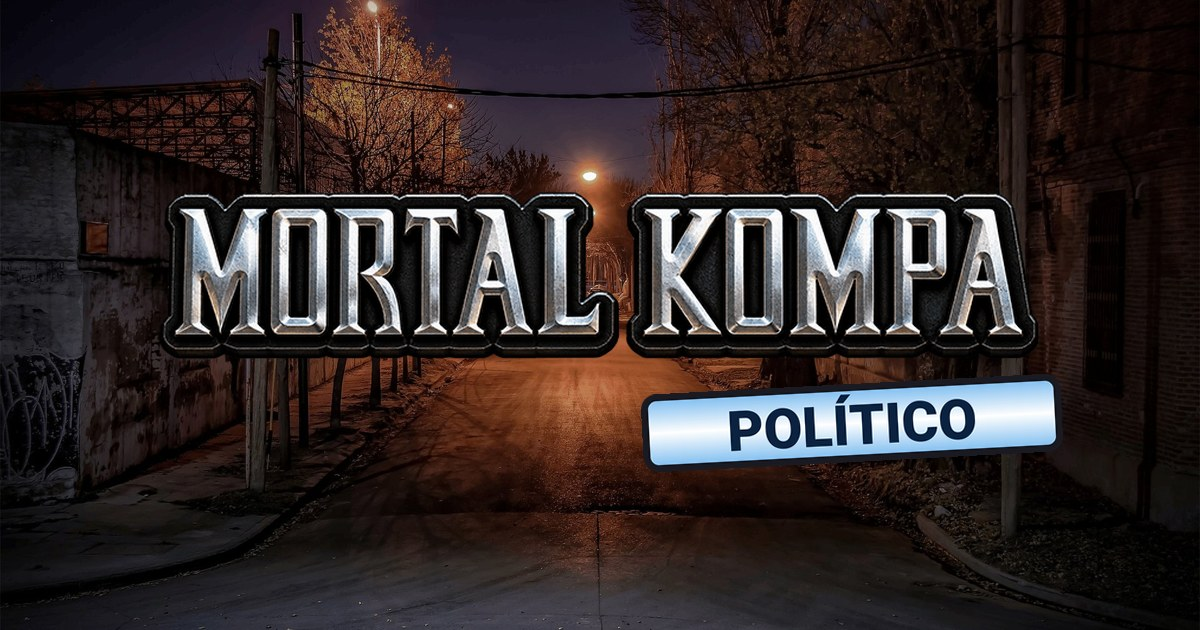
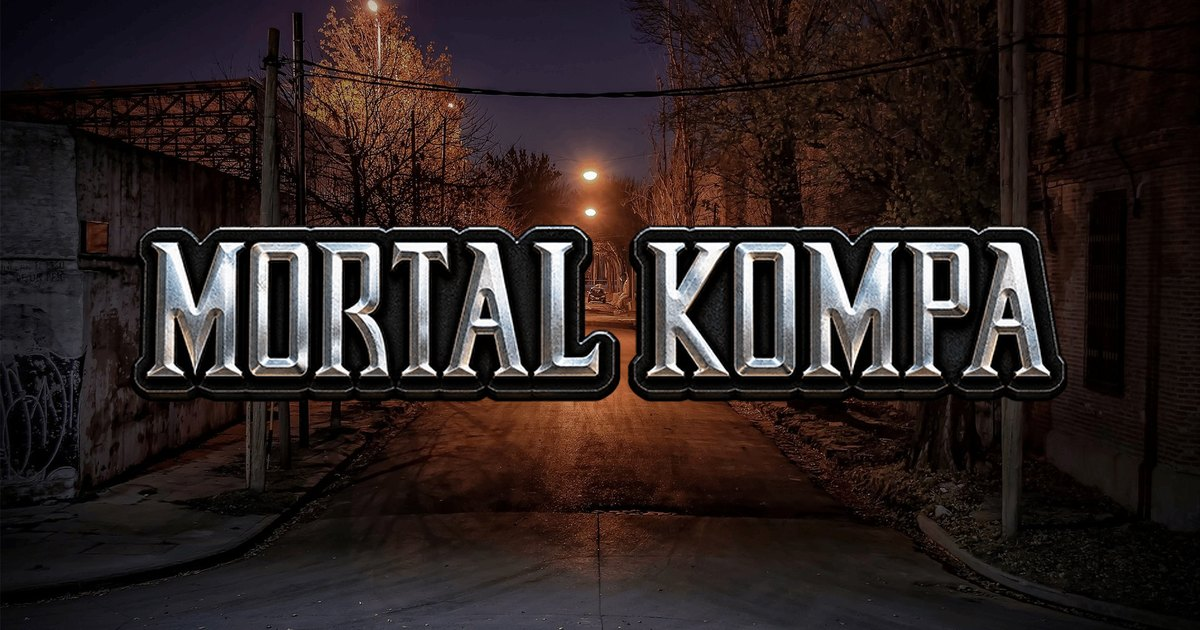
V.0.7: el juego se llama Mortal Kompa para los jugadores (la app sigue como MK Político)
Claude-Session: https://claude.ai/code/session_01Sg6N41hiu552rFHPj4zBgC

Changed region(s): [[0.0925, 0.0, 0.8942, 0.754], [0.6167, 0.0, 0.6475, 0.0603]]

diff --git a/index.html b/index.html
@@ -7,14 +7,14 @@
   <meta name="mobile-web-app-capable" content="yes">
   <meta name="apple-mobile-web-app-capable" content="yes">
   <meta name="apple-mobile-web-app-status-bar-style" content="black-fullscreen">
-  <meta name="description" content="Mortal Kompa Político: juego de pelea de la política argentina. Jugá en el navegador o en el celular, contra la CPU, de a dos o online con un link.">
-  <meta property="og:title" content="Mortal Kompa Político">
+  <meta name="description" content="Mortal Kompa: juego de pelea de la política argentina. Jugá en el navegador o en el celular, contra la CPU, de a dos o online con un link.">
+  <meta property="og:title" content="Mortal Kompa">
   <meta property="og:description" content="¡Te desafío a una pelea! Juego de pelea en el navegador.">
-  <title>Mortal Kompa Político</title>
+  <title>Mortal Kompa</title>
   <link rel="icon" href="assets/ui/app_icon_192.png">
   <link rel="apple-touch-icon" href="assets/ui/app_icon_192.png">
   <meta property="og:type" content="website">
-  <meta property="og:site_name" content="Mortal Kompa Político">
+  <meta property="og:site_name" content="Mortal Kompa">
   <meta property="og:url" content="https://jsolaresc.github.io/MortalKompaPolitico/">
   <meta property="og:image" content="https://jsolaresc.github.io/MortalKompaPolitico/assets/ui/share.jpg">
   <meta property="og:image:width" content="1200">
@@ -58,7 +58,7 @@
       <li>Tocá <b>Compartir</b> (el cuadrado con la flecha hacia arriba).</li>
       <li>Elegí <b>Agregar a pantalla de inicio</b>.</li>
     </ol>
-    <div>Queda el ícono de Mortal Kompa Político: abrilo desde ahí y se juega en pantalla completa.</div>
+    <div>Queda el ícono de Mortal Kompa: abrilo desde ahí y se juega en pantalla completa.</div>
     <div class="buttons"><button type="button" onclick="document.getElementById('install-ios').classList.add('hidden')">Entendido</button></div>
   </div>
   </div>

diff --git a/js/scenes/online.js b/js/scenes/online.js
@@ -44,7 +44,7 @@ function showPanel({ link = null, app }) {
   linkBox.classList.remove("hidden");
   const input = document.getElementById("share-link");
   input.value = link;
-  const msg = `¡Te desafío a una pelea en Mortal Kompa Político! Entrá acá: ${link}`;
+  const msg = `¡Te desafío a una pelea en Mortal Kompa! Entrá acá: ${link}`;
   document.getElementById("share-copy").onclick = async () => {
     if (BRIDGE) { BRIDGE.copy(link); app.toast("¡Link copiado!"); return; }
     try { await navigator.clipboard.writeText(link); app.toast("¡Link copiado!"); }
@@ -54,7 +54,7 @@ function showPanel({ link = null, app }) {
   // donde casi nunca existe, abre WhatsApp con el mensaje armado
   document.getElementById("share-native").onclick = () => {
     if (BRIDGE) BRIDGE.share(msg);
-    else if (navigator.share) navigator.share({ title: "Mortal Kompa Político", text: msg, url: link }).catch(() => {});
+    else if (navigator.share) navigator.share({ title: "Mortal Kompa", text: msg, url: link }).catch(() => {});
     else window.open(`https://wa.me/?text=${encodeURIComponent(msg)}`, "_blank", "noopener");
   };
 }

diff --git a/js/ui.js b/js/ui.js
@@ -125,20 +125,6 @@ export function logo(ctx, view, y = 120, scale = 1) {
   } else {
     text(ctx, "MORTAL KOMPA", 0, -10, { size: 74, color: "#f0c828", stroke: 10, strokeColor: "#3a1400" });
   }
-  // cinta "POLÍTICO" (celeste y blanca) debajo del logo de Mortal Kompa
-  ctx.save();
-  ctx.translate(150, 62);
-  ctx.rotate(-0.06);
-  roundRect(ctx, -120, -22, 240, 44, 8);
-  const g = ctx.createLinearGradient(0, -22, 0, 22);
-  g.addColorStop(0, "#8cc8f4"); g.addColorStop(0.5, "#ffffff"); g.addColorStop(1, "#6cb4ee");
-  ctx.fillStyle = g;
-  ctx.fill();
-  ctx.lineWidth = 4;
-  ctx.strokeStyle = "#1a1a22";
-  ctx.stroke();
-  text(ctx, "POLÍTICO", 0, 2, { size: 32, color: "#0b2340", shadow: false });
-  ctx.restore();
   ctx.restore();
 }
 

diff --git a/js/config.js b/js/config.js
@@ -8,8 +8,8 @@
 // =====================================================================
 
 // Subila en cada entrega: V.0.1, V.0.2 ... hasta V.1.0
-export const GAME_VERSION = "V.0.6";
-export const GAME_TITLE = "Mortal Kompa Político";
+export const GAME_VERSION = "V.0.7";
+export const GAME_TITLE = "Mortal Kompa";
 
 export const BASE_W = 960;          // ancho de la "ventana de pelea" (16:9)
 export const BASE_H = 540;

diff --git a/js/platform.js b/js/platform.js
@@ -8,7 +8,7 @@
 // =====================================================================
 
 export const BRIDGE = typeof window !== "undefined" ? window.MKAndroid || null : null;
-export const APP_NAME = "Mortal Kompa Político";
+export const APP_NAME = "Mortal Kompa";
 export const IS_APP = !!BRIDGE;
 
 // Dirección pública del juego (para los links de invitación: desde la app

diff --git a/CHANGELOG.md b/CHANGELOG.md
@@ -1,5 +1,11 @@
 # Cambios
 
+## V.0.7
+- El juego se llama **Mortal Kompa** a secas para los jugadores: sin la cinta "POLÍTICO" en el
+  logo, título de la página, ícono, vista previa al compartir y mensaje de invitación.
+- La app de Android sigue instalándose como "MK Político" (con la cinta en el ícono) para poder
+  tenerla junto a la versión familiar.
+
 ## V.0.6
 - Se copió la versión navegador actualizada de Mortal Kompa (jugabilidad, menús y apps):
   - Jugabilidad: golpe crítico = doble daño; daño fijo al cubrirse según el ataque (puño/patada

diff --git a/README.md b/README.md
@@ -1,4 +1,8 @@
-# Mortal Kompa Político — V.0.6
+# Mortal Kompa — V.0.7
+
+Versión pública del juego (repo `MortalKompaPolitico`, luchadores de la política argentina). Para los
+jugadores se llama **Mortal Kompa** a secas; solo la app de Android se instala como **"MK Político"**
+(con su propio ícono) para poder tenerla junto a la versión familiar.
 
 Juego de pelea en el navegador, hermano de Mortal Kompa: misma jugabilidad,
 luchadores de la política argentina. No se instala: se juega desde una página
